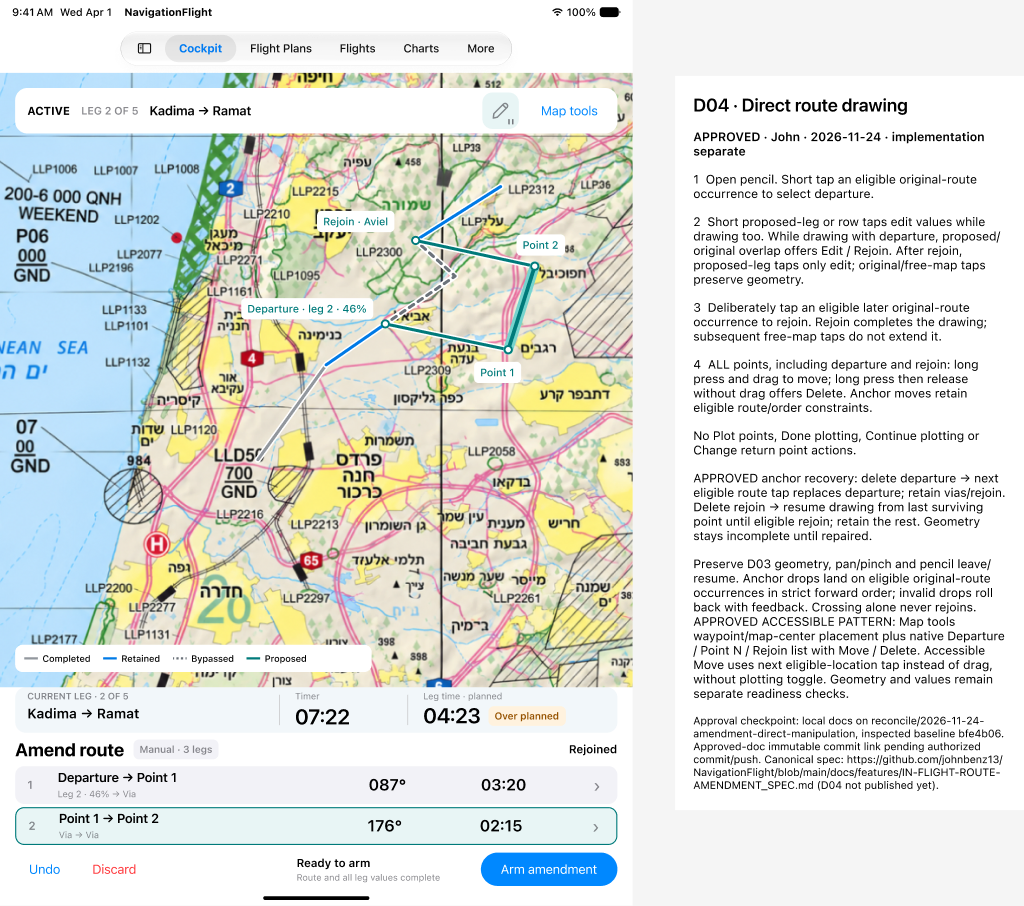
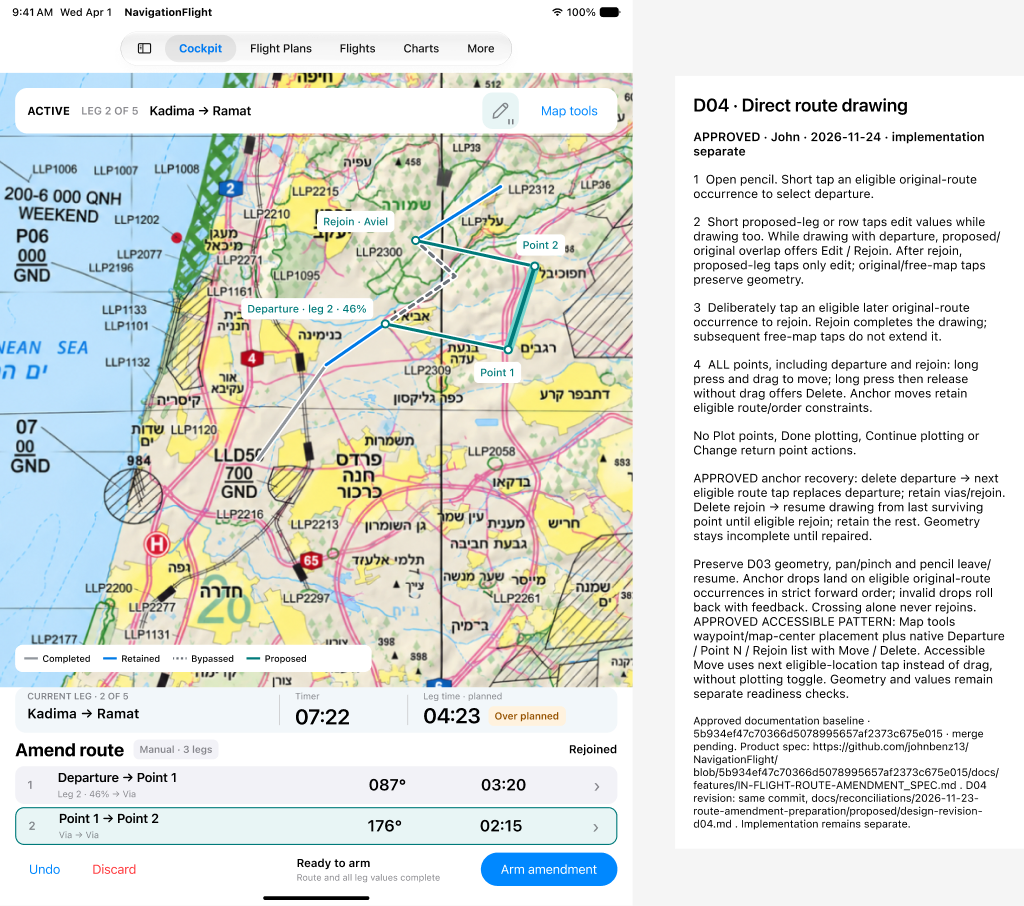
docs: link immutable D04 approval baseline

Changed region(s): [[0.6562, 0.7726, 1.0, 0.9272]]

diff --git a/docs/reconciliations/2026-11-23-route-amendment-preparation/proposed/tasks/ap-04.md b/docs/reconciliations/2026-11-23-route-amendment-preparation/proposed/tasks/ap-04.md
@@ -1,7 +1,7 @@
 # AP-04 · Edit and preserve a leg heading in the on-map editor
 
 **Status:** approved contract · John · 2026-11-24. Publication authorized; implementation remains separately requested.
-**Prerequisite:** AP-02/#226 closed through merged PR #238 (`bfe4b06`). Revised D04 implementation awaits the approved documentation checkpoint being committed/pushed/merged and a separate implementation request.
+**Prerequisite:** AP-02/#226 closed through merged PR #238 (`bfe4b06`). Revised D04 implementation awaits the approved documentation checkpoint `5b934ef` being merged and a separate implementation request.
 **Requirements:** G03, G01. **Planned tracker:** GitHub johnbenz13/NavigationFlight.
 
 **Published issue:** [#228](https://github.com/johnbenz13/NavigationFlight/issues/228); parent [#224](https://github.com/johnbenz13/NavigationFlight/issues/224).
@@ -11,8 +11,7 @@
 [Approved D04 frame/notes](https://www.figma.com/design/JCyQhDDzCPfrrbv6SBcwKw?node-id=48-409)
 supersede conflicting plotting/continuation controls, plotting-off value gating and
 short-point correction only; D03 geometry/unaffected D02 and dated history remain.
-Full contract: canonical product spec and D04 reconciliation revision locally;
-approved immutable docs permalink awaits authorized commit/push/merge. Design and
+Approved [product contract](https://github.com/johnbenz13/NavigationFlight/blob/5b934ef47c70366d5078995657af2373c675e015/docs/features/IN-FLIGHT-ROUTE-AMENDMENT_SPEC.md) and [D04 revision](https://github.com/johnbenz13/NavigationFlight/blob/5b934ef47c70366d5078995657af2373c675e015/docs/reconciliations/2026-11-23-route-amendment-preparation/proposed/design-revision-d04.md) are fixed at `5b934ef`; merge is pending. Design and
 behavior approval does not authorize implementation or check acceptance criteria.
 
 ## Outcome and scope

diff --git a/docs/reconciliations/2026-11-23-route-amendment-preparation/proposed/tasks/ap-03.md b/docs/reconciliations/2026-11-23-route-amendment-preparation/proposed/tasks/ap-03.md
@@ -1,7 +1,7 @@
 # AP-03 · Rejoin by a deliberate forward route tap
 
 **Status:** approved contract · John · 2026-11-24. Publication authorized; implementation remains separately requested.
-**Prerequisite:** AP-02/#226 closed through merged PR #238 (`bfe4b06`). Revised D04 implementation awaits the approved documentation checkpoint being committed/pushed/merged and a separate implementation request.
+**Prerequisite:** AP-02/#226 closed through merged PR #238 (`bfe4b06`). Revised D04 implementation awaits the approved documentation checkpoint `5b934ef` being merged and a separate implementation request.
 **Requirements:** G02, G06. **Planned tracker:** GitHub johnbenz13/NavigationFlight.
 
 **Published issue:** [#227](https://github.com/johnbenz13/NavigationFlight/issues/227); parent [#224](https://github.com/johnbenz13/NavigationFlight/issues/224).
@@ -11,8 +11,7 @@
 [Approved D04 frame/notes](https://www.figma.com/design/JCyQhDDzCPfrrbv6SBcwKw?node-id=48-409)
 supersede conflicting plotting/continuation controls, plotting-off value gating and
 short-point correction only; D03 geometry/unaffected D02 and dated history remain.
-Full contract: canonical product spec and D04 reconciliation revision locally;
-approved immutable docs permalink awaits authorized commit/push/merge. Design and
+Approved [product contract](https://github.com/johnbenz13/NavigationFlight/blob/5b934ef47c70366d5078995657af2373c675e015/docs/features/IN-FLIGHT-ROUTE-AMENDMENT_SPEC.md) and [D04 revision](https://github.com/johnbenz13/NavigationFlight/blob/5b934ef47c70366d5078995657af2373c675e015/docs/reconciliations/2026-11-23-route-amendment-preparation/proposed/design-revision-d04.md) are fixed at `5b934ef`; merge is pending. Design and
 behavior approval does not authorize implementation or check acceptance criteria.
 
 ## Outcome and scope

diff --git a/docs/reconciliations/2026-11-23-route-amendment-preparation/proposed/decisions.md b/docs/reconciliations/2026-11-23-route-amendment-preparation/proposed/decisions.md
@@ -5,8 +5,7 @@
 [Approved D04 frame/notes](https://www.figma.com/design/JCyQhDDzCPfrrbv6SBcwKw?node-id=48-409)
 supersede conflicting plotting/continuation controls, plotting-off value gating and
 short-point correction only; D03 geometry/unaffected D02 and dated history remain.
-Full contract: canonical product spec and D04 reconciliation revision locally;
-approved immutable docs permalink awaits authorized commit/push/merge. Design and
+Approved [product contract](https://github.com/johnbenz13/NavigationFlight/blob/5b934ef47c70366d5078995657af2373c675e015/docs/features/IN-FLIGHT-ROUTE-AMENDMENT_SPEC.md) and [D04 revision](https://github.com/johnbenz13/NavigationFlight/blob/5b934ef47c70366d5078995657af2373c675e015/docs/reconciliations/2026-11-23-route-amendment-preparation/proposed/design-revision-d04.md) are fixed at `5b934ef`; merge is pending. Design and
 behavior approval does not authorize implementation or check acceptance criteria.
 
 The earlier descriptions below are retained as dated history where D04 supersedes them.

diff --git a/docs/reconciliations/2026-11-23-route-amendment-preparation/proposed/design-coverage.md b/docs/reconciliations/2026-11-23-route-amendment-preparation/proposed/design-coverage.md
@@ -5,8 +5,7 @@
 [Approved D04 frame/notes](https://www.figma.com/design/JCyQhDDzCPfrrbv6SBcwKw?node-id=48-409)
 supersede conflicting plotting/continuation controls, plotting-off value gating and
 short-point correction only; D03 geometry/unaffected D02 and dated history remain.
-Full contract: canonical product spec and D04 reconciliation revision locally;
-approved immutable docs permalink awaits authorized commit/push/merge. Design and
+Approved [product contract](https://github.com/johnbenz13/NavigationFlight/blob/5b934ef47c70366d5078995657af2373c675e015/docs/features/IN-FLIGHT-ROUTE-AMENDMENT_SPEC.md) and [D04 revision](https://github.com/johnbenz13/NavigationFlight/blob/5b934ef47c70366d5078995657af2373c675e015/docs/reconciliations/2026-11-23-route-amendment-preparation/proposed/design-revision-d04.md) are fixed at `5b934ef`; merge is pending. Design and
 behavior approval does not authorize implementation or check acceptance criteria.
 
 The earlier descriptions below are retained as dated history where D04 supersedes them.

diff --git a/docs/reconciliations/2026-11-23-route-amendment-preparation/proposed/preparing-an-amendment.md b/docs/reconciliations/2026-11-23-route-amendment-preparation/proposed/preparing-an-amendment.md
@@ -5,8 +5,7 @@
 [Approved D04 frame/notes](https://www.figma.com/design/JCyQhDDzCPfrrbv6SBcwKw?node-id=48-409)
 supersede conflicting plotting/continuation controls, plotting-off value gating and
 short-point correction only; D03 geometry/unaffected D02 and dated history remain.
-Full contract: canonical product spec and D04 reconciliation revision locally;
-approved immutable docs permalink awaits authorized commit/push/merge. Design and
+Approved [product contract](https://github.com/johnbenz13/NavigationFlight/blob/5b934ef47c70366d5078995657af2373c675e015/docs/features/IN-FLIGHT-ROUTE-AMENDMENT_SPEC.md) and [D04 revision](https://github.com/johnbenz13/NavigationFlight/blob/5b934ef47c70366d5078995657af2373c675e015/docs/reconciliations/2026-11-23-route-amendment-preparation/proposed/design-revision-d04.md) are fixed at `5b934ef`; merge is pending. Design and
 behavior approval does not authorize implementation or check acceptance criteria.
 
 The earlier descriptions below are retained as dated history where D04 supersedes them.

diff --git a/docs/reconciliations/2026-11-23-route-amendment-preparation/proposed/tasks/README.md b/docs/reconciliations/2026-11-23-route-amendment-preparation/proposed/tasks/README.md
@@ -5,8 +5,7 @@
 [Approved D04 frame/notes](https://www.figma.com/design/JCyQhDDzCPfrrbv6SBcwKw?node-id=48-409)
 supersede conflicting plotting/continuation controls, plotting-off value gating and
 short-point correction only; D03 geometry/unaffected D02 and dated history remain.
-Full contract: canonical product spec and D04 reconciliation revision locally;
-approved immutable docs permalink awaits authorized commit/push/merge. Design and
+Approved [product contract](https://github.com/johnbenz13/NavigationFlight/blob/5b934ef47c70366d5078995657af2373c675e015/docs/features/IN-FLIGHT-ROUTE-AMENDMENT_SPEC.md) and [D04 revision](https://github.com/johnbenz13/NavigationFlight/blob/5b934ef47c70366d5078995657af2373c675e015/docs/reconciliations/2026-11-23-route-amendment-preparation/proposed/design-revision-d04.md) are fixed at `5b934ef`; merge is pending. Design and
 behavior approval does not authorize implementation or check acceptance criteria.
 
 The earlier descriptions below are retained as dated history where D04 supersedes them.

diff --git a/docs/reconciliations/2026-11-23-route-amendment-preparation/proposed/tasks/contract.md b/docs/reconciliations/2026-11-23-route-amendment-preparation/proposed/tasks/contract.md
@@ -5,8 +5,7 @@
 [Approved D04 frame/notes](https://www.figma.com/design/JCyQhDDzCPfrrbv6SBcwKw?node-id=48-409)
 supersede conflicting plotting/continuation controls, plotting-off value gating and
 short-point correction only; D03 geometry/unaffected D02 and dated history remain.
-Full contract: canonical product spec and D04 reconciliation revision locally;
-approved immutable docs permalink awaits authorized commit/push/merge. Design and
+Approved [product contract](https://github.com/johnbenz13/NavigationFlight/blob/5b934ef47c70366d5078995657af2373c675e015/docs/features/IN-FLIGHT-ROUTE-AMENDMENT_SPEC.md) and [D04 revision](https://github.com/johnbenz13/NavigationFlight/blob/5b934ef47c70366d5078995657af2373c675e015/docs/reconciliations/2026-11-23-route-amendment-preparation/proposed/design-revision-d04.md) are fixed at `5b934ef`; merge is pending. Design and
 behavior approval does not authorize implementation or check acceptance criteria.
 
 The earlier descriptions below are retained as dated history where D04 supersedes them.

diff --git a/docs/reconciliations/2026-11-23-route-amendment-preparation/proposed/tasks/ap-07.md b/docs/reconciliations/2026-11-23-route-amendment-preparation/proposed/tasks/ap-07.md
@@ -11,8 +11,7 @@
 [Approved D04 frame/notes](https://www.figma.com/design/JCyQhDDzCPfrrbv6SBcwKw?node-id=48-409)
 supersede conflicting plotting/continuation controls, plotting-off value gating and
 short-point correction only; D03 geometry/unaffected D02 and dated history remain.
-Full contract: canonical product spec and D04 reconciliation revision locally;
-approved immutable docs permalink awaits authorized commit/push/merge. Design and
+Approved [product contract](https://github.com/johnbenz13/NavigationFlight/blob/5b934ef47c70366d5078995657af2373c675e015/docs/features/IN-FLIGHT-ROUTE-AMENDMENT_SPEC.md) and [D04 revision](https://github.com/johnbenz13/NavigationFlight/blob/5b934ef47c70366d5078995657af2373c675e015/docs/reconciliations/2026-11-23-route-amendment-preparation/proposed/design-revision-d04.md) are fixed at `5b934ef`; merge is pending. Design and
 behavior approval does not authorize implementation or check acceptance criteria.
 
 ## Outcome and scope

diff --git a/docs/reconciliations/2026-11-23-route-amendment-preparation/proposed/tasks/ap-09.md b/docs/reconciliations/2026-11-23-route-amendment-preparation/proposed/tasks/ap-09.md
@@ -11,8 +11,7 @@
 [Approved D04 frame/notes](https://www.figma.com/design/JCyQhDDzCPfrrbv6SBcwKw?node-id=48-409)
 supersede conflicting plotting/continuation controls, plotting-off value gating and
 short-point correction only; D03 geometry/unaffected D02 and dated history remain.
-Full contract: canonical product spec and D04 reconciliation revision locally;
-approved immutable docs permalink awaits authorized commit/push/merge. Design and
+Approved [product contract](https://github.com/johnbenz13/NavigationFlight/blob/5b934ef47c70366d5078995657af2373c675e015/docs/features/IN-FLIGHT-ROUTE-AMENDMENT_SPEC.md) and [D04 revision](https://github.com/johnbenz13/NavigationFlight/blob/5b934ef47c70366d5078995657af2373c675e015/docs/reconciliations/2026-11-23-route-amendment-preparation/proposed/design-revision-d04.md) are fixed at `5b934ef`; merge is pending. Design and
 behavior approval does not authorize implementation or check acceptance criteria.
 
 ## Outcome and scope

diff --git a/docs/technical/IN-FLIGHT-ROUTE-AMENDMENT-TECHNICAL-DESIGN.md b/docs/technical/IN-FLIGHT-ROUTE-AMENDMENT-TECHNICAL-DESIGN.md
@@ -9,8 +9,8 @@ Approved baseline · John · 2026-11-22. Shared operational Cockpit direction ap
 ## D04 direct drawing · approved technical scope · 2026-11-24
 
 John explicitly approved D04 on 2026-11-24, including anchor recovery and accessible
-actions. Earlier dated approvals and delivery remain historical. Approved local
-docs await an authorized commit/push/merge and immutable approval permalink.
+actions. Earlier dated approvals and delivery remain historical. Approved
+[documentation baseline](https://github.com/johnbenz13/NavigationFlight/blob/5b934ef47c70366d5078995657af2373c675e015/docs/features/IN-FLIGHT-ROUTE-AMENDMENT_SPEC.md) is committed at `5b934ef`; merge is pending.
 
 [Approved product behavior and Figma review](../reconciliations/2026-11-23-route-amendment-preparation/proposed/design-revision-d04.md)
 intentionally revise the preparation input contract; this section records future

diff --git a/docs/features/IN-FLIGHT-ROUTE-AMENDMENT_SPEC.md b/docs/features/IN-FLIGHT-ROUTE-AMENDMENT_SPEC.md
@@ -7,8 +7,8 @@ Planning baseline: NavigationFlight `258a42cd060195a24086908fecee9bb44312ff30` (
 ## D04 direct drawing revision · approved · 2026-11-24
 
 John explicitly approved D04 on 2026-11-24, including anchor recovery and accessible
-actions. Earlier dated approvals and delivery remain historical. Approved local
-docs await an authorized commit/push/merge and immutable approval permalink.
+actions. Earlier dated approvals and delivery remain historical. Approved
+[documentation baseline](https://github.com/johnbenz13/NavigationFlight/blob/5b934ef47c70366d5078995657af2373c675e015/docs/features/IN-FLIGHT-ROUTE-AMENDMENT_SPEC.md) is committed at `5b934ef`; merge is pending.
 
 John requested a bounded revision after reviewing AP-03. [D04 behavior, preview
 and exact Figma nodes](../reconciliations/2026-11-23-route-amendment-preparation/proposed/design-revision-d04.md)

diff --git a/docs/reconciliations/2026-11-23-route-amendment-preparation/proposed/design-revision-d04.md b/docs/reconciliations/2026-11-23-route-amendment-preparation/proposed/design-revision-d04.md
@@ -101,4 +101,4 @@ this checkpoint changes documentation and design only. Design/behavior approval 
 implementation authorization, implementation acceptance and issue closure remain
 separate decisions.
 
-Approved local docs await an authorized commit/push; the immutable approval-document permalink remains a checkpoint dependency. No commit or push is implied.
+Approved documentation checkpoint: [product spec](https://github.com/johnbenz13/NavigationFlight/blob/5b934ef47c70366d5078995657af2373c675e015/docs/features/IN-FLIGHT-ROUTE-AMENDMENT_SPEC.md) and [D04 revision](https://github.com/johnbenz13/NavigationFlight/blob/5b934ef47c70366d5078995657af2373c675e015/docs/reconciliations/2026-11-23-route-amendment-preparation/proposed/design-revision-d04.md) at `5b934ef`. Merge is pending.
